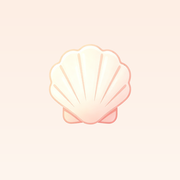
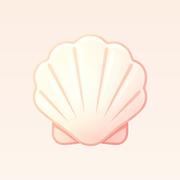
icon放大

diff --git a/frontend/src/style.css b/frontend/src/style.css
@@ -4,21 +4,21 @@
 
 /* ============================================================
    主题变量
-   - neutral  : 保密 / 默认（柔和紫）
-   - female   : 女宝（柔和粉）
-   - male     : 男宝（柔和蓝）
+   - neutral  : 保密 / 默认（珊瑚粉，与贝壳图标同色系）
+   - female   : 女宝（干枯玫瑰粉）
+   - male     : 男宝（静谧雾霾蓝）
    每个主题提供：主色(三通道RGB)、主色浅底、尿布强调色
    ============================================================ */
 :root,
 [data-theme='neutral'] {
-  --primary: 124 108 255;        /* #7C6CFF */
-  --primary-light: 240 238 255;    /* #F0EEFF */
+  --primary: 214 126 116;        /* #D67E74 灰调珊瑚粉 */
+  --primary-light: 247 230 226;    /* #F7E6E2 暖粉灰 */
   --diaper: 255 122 89;          /* #FF7A59 暖珊瑚，三主题通用强调 */
   --temperature: 102 187 106;     /* #66BB6A 绿色，清爽感 */
   --sleep: 78 205 196;           /* #4ECDC4 青绿，睡眠休息感 */
   --outdoor: 132 204 22;         /* #84CC16 草绿，户外活力 */
-  --header-grad: linear-gradient(135deg, rgb(124 108 255 / 0.16), rgb(124 108 255 / 0.04));
-  --chart-primary: #7C6CFF;
+  --header-grad: linear-gradient(135deg, rgb(214 126 116 / 0.16), rgb(214 126 116 / 0.04));
+  --chart-primary: #D67E74;
   --chart-diaper: #FF7A59;
   --chart-temperature: #66BB6A;
   --chart-sleep: #4ECDC4;
@@ -27,14 +27,14 @@
 }
 
 [data-theme='female'] {
-  --primary: 255 126 179;        /* #FF7EB3 */
-  --primary-light: 255 230 240;    /* #FFE6F0 */
+  --primary: 208 124 148;        /* #D07C94 干枯玫瑰粉 */
+  --primary-light: 247 231 236;    /* #F7E7EC 玫瑰粉白 */
   --diaper: 255 122 89;          /* #FF7A59 */
   --temperature: 102 187 106;     /* #66BB6A */
   --sleep: 78 205 196;           /* #4ECDC4 */
   --outdoor: 132 204 22;         /* #84CC16 */
-  --header-grad: linear-gradient(135deg, rgb(255 126 179 / 0.18), rgb(255 126 179 / 0.04));
-  --chart-primary: #FF7EB3;
+  --header-grad: linear-gradient(135deg, rgb(208 124 148 / 0.18), rgb(208 124 148 / 0.04));
+  --chart-primary: #D07C94;
   --chart-diaper: #FF7A59;
   --chart-temperature: #66BB6A;
   --chart-sleep: #4ECDC4;
@@ -43,14 +43,14 @@
 }
 
 [data-theme='male'] {
-  --primary: 77 157 253;         /* #4D9DFD */
-  --primary-light: 230 241 254;    /* #E6F1FE */
+  --primary: 104 146 178;        /* #6892B2 静谧雾霾蓝 */
+  --primary-light: 233 240 245;    /* #E9F0F5 灰蓝白 */
   --diaper: 255 122 89;          /* #FF7A59 */
   --temperature: 102 187 106;     /* #66BB6A */
   --sleep: 78 205 196;           /* #4ECDC4 */
   --outdoor: 132 204 22;         /* #84CC16 */
-  --header-grad: linear-gradient(135deg, rgb(77 157 253 / 0.18), rgb(77 157 253 / 0.04));
-  --chart-primary: #4D9DFD;
+  --header-grad: linear-gradient(135deg, rgb(104 146 178 / 0.18), rgb(104 146 178 / 0.04));
+  --chart-primary: #6892B2;
   --chart-diaper: #FF7A59;
   --chart-temperature: #66BB6A;
   --chart-sleep: #4ECDC4;
@@ -66,7 +66,7 @@
 html, body {
   margin: 0;
   padding: 0;
-  background-color: #F7F8FC;
+  background-color: #FDF7F5;
   font-family: "PingFang SC", "Hiragino Sans GB", "Microsoft YaHei", sans-serif;
   -webkit-font-smoothing: antialiased;
   overscroll-behavior: none;
@@ -80,7 +80,7 @@ body {
   min-height: 100dvh;
   max-width: 480px;
   margin: 0 auto;
-  background: #F7F8FC;
+  background: #FDF7F5;
   position: relative;
   overflow-x: hidden;
   transition: background-color 0.35s ease;

diff --git a/frontend/src/pages/BabyFormPage.vue b/frontend/src/pages/BabyFormPage.vue
@@ -86,7 +86,7 @@ const loading = ref(false)
 const error = ref('')
 const showDelete = ref(false)
 
-const colors = ['#FF7EB3', '#4D9DFD', '#7C6CFF', '#43C59E', '#FFD93D', '#FF9F68', '#74B9FF', '#FDA7DF']
+const colors = ['#D07C94', '#6892B2', '#D67E74', '#43C59E', '#FFD93D', '#FF9F68', '#74B9FF', '#FDA7DF']
 const genders = [
   { value: 'male', label: '男孩', emoji: '👦' },
   { value: 'female', label: '女孩', emoji: '👧' },
@@ -97,7 +97,7 @@ const form = reactive({
   name: '',
   birth_date: '',
   gender: '',
-  avatar_color: '#7C6CFF',
+  avatar_color: '#D67E74',
 })
 
 // 选择性别时自动套用对应主题默认头像色
@@ -114,7 +114,7 @@ async function loadBaby() {
     form.name = baby.name
     form.birth_date = baby.birth_date ? baby.birth_date.replace('Z', '').slice(0, 16) : ''
     form.gender = baby.gender || ''
-    form.avatar_color = baby.avatar_color || '#7C6CFF'
+    form.avatar_color = baby.avatar_color || '#D67E74'
   }
 }
 

diff --git a/frontend/index.html b/frontend/index.html
@@ -3,7 +3,7 @@
   <head>
     <meta charset="UTF-8" />
     <meta name="viewport" content="width=device-width, initial-scale=1.0, maximum-scale=1.0, user-scalable=no, viewport-fit=cover" />
-    <meta name="theme-color" content="#7C6CFF" />
+    <meta name="theme-color" content="#D67E74" />
     <meta name="mobile-web-app-capable" content="yes" />
     <meta name="apple-mobile-web-app-capable" content="yes" />
     <meta name="apple-mobile-web-app-status-bar-style" content="default" />
@@ -13,7 +13,7 @@
     <link rel="apple-touch-icon" href="/apple-touch-icon.png" />
     <link rel="icon" type="image/png" href="/favicon.png" />
     <link rel="icon" type="image/png" sizes="192x192" href="/icon-192.png" />
-    <title>🍼 宝宝护理记录</title>
+    <title>🐚 宝宝护理记录</title>
   </head>
   <body>
     <div id="app"></div>

diff --git a/frontend/src/pages/HomePage.vue b/frontend/src/pages/HomePage.vue
@@ -202,7 +202,7 @@
         <div class="space-y-2">
           <h2 class="text-sm font-semibold text-text-secondary uppercase tracking-wide">最近记录</h2>
           <div v-if="displayRecords.length === 0" class="bg-white rounded-2xl p-6 text-center shadow-card">
-            <div class="text-4xl mb-2">🍼</div>
+            <img src="/icon-192.png" alt="" class="w-12 h-12 mx-auto mb-2" />
             <p class="text-text-secondary text-sm">还没有记录</p>
           </div>
           <RecordCard v-for="(r, i) in displayRecords" :key="r.record_type + '-' + r.id" :record="r"

diff --git a/frontend/tailwind.config.js b/frontend/tailwind.config.js
@@ -17,11 +17,11 @@ export default {
         // 固定辅助色
         secondary: '#FFB6C1',
         success: '#43C59E',
-        'bg-main': '#F7F8FC',
-        'bg-secondary': '#F1F3F9',
+        'bg-main': '#FDF7F5',
+        'bg-secondary': '#F9EFEB',
         'text-primary': '#2D3436',
         'text-secondary': '#667085',
-        'border-color': '#EDEFF4',
+        'border-color': '#F3E7E3',
       },
       fontFamily: {
         sans: ['"PingFang SC"', '"Hiragino Sans GB"', '"Microsoft YaHei"', 'sans-serif'],

diff --git a/frontend/src/pages/TimelinePage.vue b/frontend/src/pages/TimelinePage.vue
@@ -16,7 +16,7 @@
     <main class="flex-1 min-h-0 px-4 py-4 overflow-y-auto pb-[calc(5rem+env(safe-area-inset-bottom))]">
       <div v-if="loading" class="text-center py-16 text-text-secondary">加载中...</div>
       <div v-else-if="groupedRecords.length === 0" class="text-center py-16">
-        <div class="text-5xl mb-4">🍼</div>
+        <img src="/icon-192.png" alt="" class="w-14 h-14 mx-auto mb-4" />
         <p class="text-text-secondary">暂无记录</p>
       </div>
       <div v-else class="space-y-6">

diff --git a/frontend/src/pages/LoginPage.vue b/frontend/src/pages/LoginPage.vue
@@ -2,7 +2,7 @@
   <div class="min-h-dvh bg-bg-main flex flex-col items-center justify-center px-6">
     <!-- Logo -->
     <div class="mb-10 text-center">
-      <div class="text-6xl mb-4">🍼</div>
+      <img src="/icon-192.png" alt="宝宝护理记录" class="w-20 h-20 mb-4 drop-shadow-sm" />
       <h1 class="text-2xl font-bold text-text-primary">宝宝护理记录</h1>
       <p class="text-text-secondary text-sm mt-1">记录宝宝成长，每一刻都珍贵</p>
     </div>

diff --git a/frontend/src/stores/app.ts b/frontend/src/stores/app.ts
@@ -40,9 +40,9 @@ export const useAppStore = defineStore('app', () => {
   })
 
   function defaultAvatarColor(gender: string): string {
-    if (gender === 'female') return '#FF7EB3'
-    if (gender === 'male') return '#4D9DFD'
-    return '#7C6CFF'
+    if (gender === 'female') return '#D07C94'
+    if (gender === 'male') return '#6892B2'
+    return '#D67E74'
   }
 
   async function loadBabies() {

diff --git a/frontend/public/sw.js b/frontend/public/sw.js
@@ -1,4 +1,4 @@
-const CACHE = 'baby-care-v4'
+const CACHE = 'baby-care-v6'
 const API_PREFIX = '/api/'
 
 self.addEventListener('install', () => {

diff --git a/backend/handlers/baby.go b/backend/handlers/baby.go
@@ -71,7 +71,7 @@ func CreateBaby(c *gin.Context) {
 	}
 
 	if req.AvatarColor == "" {
-		req.AvatarColor = "#7C6CFF"
+		req.AvatarColor = "#D67E74"
 	}
 
 	result, err := database.DB.Exec(
